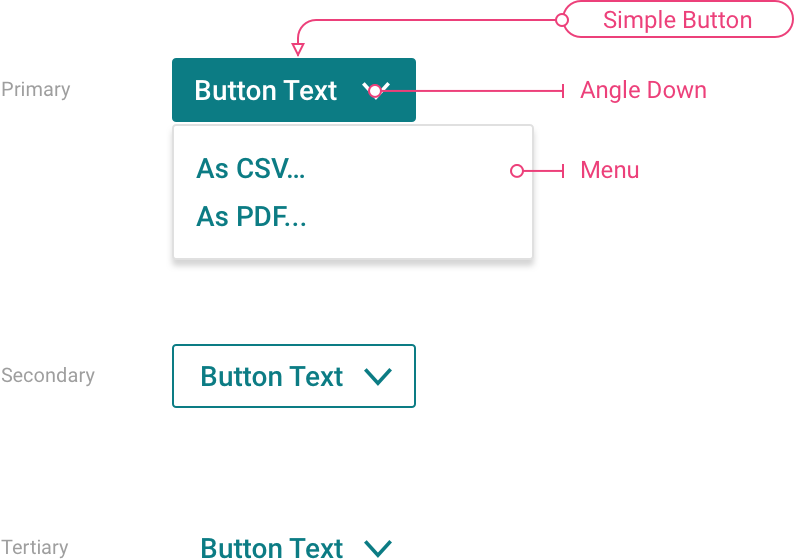
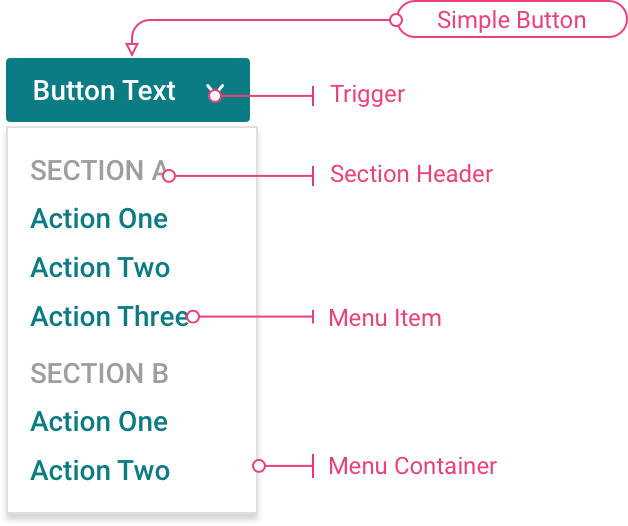
update(images): updated images

Changed region(s): [[0.0, 0.0, 0.9984, 1.0], [0.5143, 0.2738, 0.8169, 0.365], [0.9682, 0.0, 1.0, 0.0608]]

diff --git a/_component_design/drop-down-buttons.md b/_component_design/drop-down-buttons.md
@@ -5,10 +5,10 @@ layout: component
 category: Components
 usage: >
   A drop-down button is an element that, when clicked, reveals additional options to launch a process or initiate an action.
-preview-image: preview-images/buttons.svg
+preview-image: preview-images/buttons-dropdown-thumbnail.svg
 status: stable
 resource: true
-last-modified: 2018-08-17
+last-modified: 2018-08-22
 helix-ui-css: true
 helix-ui-javascript: false
 ---
@@ -77,15 +77,17 @@ Use the following specifications when you construct a drop-down button.
 A drop-down button contains the following elements:
 
 - **Simple button (required)**: Refer to [simple buttons]({{site.baseURL}}/components/buttons.html) for more information about constructing a simple button.
-- **Angle down (required)**: The drop-down menu appears when the user clicks the angle down icon.
-- **Menu (required)**: The menu contains the list of actions from which the user can select.
+- **Trigger (required)**: The drop-down menu appears when the user clicks the trigger.
+- **Section header (optional)**: Include a section header to organize menu items into logical groups. Consider using section headers when the menu container contains many items.
+- **Menu item (required)**: A menu item is an action that a user can select.
+- **Menu container (required)**: The menu container includes the section header and menu items.
 
 {% endcolumn %}
 
 {% column right:"hxCol hxSpan-12-xs hxSpan-12-sm hxSpan-8-md hxSpan-8-lg" %}
 
-{% figure [caption:"Basic drop-down button composition"] [class:"image bg-light border"] %}
-<embed src="{{site.url}}/assets/images/components/inputs-and-controls/drop-down-buttons/buttons-dropdown-composition.png" width="397"/>
+{% figure [caption:"Drop-down button composition"] [class:"image bg-light border"] %}
+<embed src="{{site.url}}/assets/images/components/inputs-and-controls/drop-down-buttons/buttons-dropdown-composition.png" width="314"/>
 {% endfigure %}
 
 {% endcolumn %}
@@ -108,8 +110,8 @@ Use these specifications when you construct a drop-down button.
 
 {% column right:"hxCol hxSpan-12-xs hxSpan-12-sm hxSpan-8-md hxSpan-8-lg" %}
 
-{% figure [caption:"Basic drop-down button style"] [class:"image bg-light border"] %}
-<embed src="{{site.url}}/assets/images/components/inputs-and-controls/drop-down-buttons/buttons-dropdown-style.png" width="487"/>
+{% figure [caption:"Drop-down button style"] [class:"image bg-light border"] %}
+<embed src="{{site.url}}/assets/images/components/inputs-and-controls/drop-down-buttons/buttons-dropdown-style.png" width="360"/>
 {% endfigure %}
 
 {% endcolumn %}
@@ -132,8 +134,8 @@ In addition to the spacing specifications documented in [simple buttons]({{site.
 
 {% column right:"hxCol hxSpan-12-xs hxSpan-12-sm hxSpan-8-md hxSpan-8-lg" %}
 
-{% figure [caption:"Basic drop-down button spacing"] [class:"image bg-light border"] %}
-<embed src="{{site.url}}/assets/images/components/inputs-and-controls/drop-down-buttons/buttons-dropdown-spacing.png" width="278"/>
+{% figure [caption:"Drop-down button spacing"] [class:"image bg-light border"] %}
+<embed src="{{site.url}}/assets/images/components/inputs-and-controls/drop-down-buttons/buttons-dropdown-spacing.png" width="260"/>
 {% endfigure %}
 
 {% endcolumn %}
